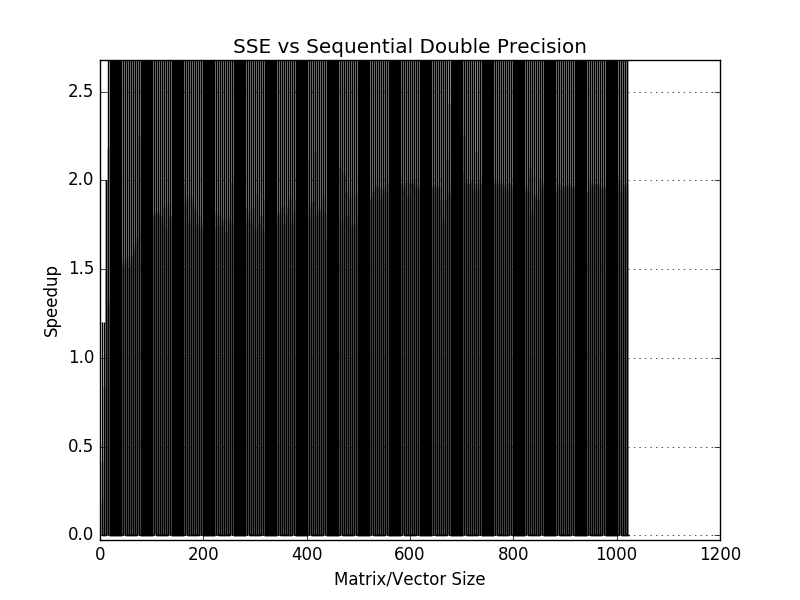
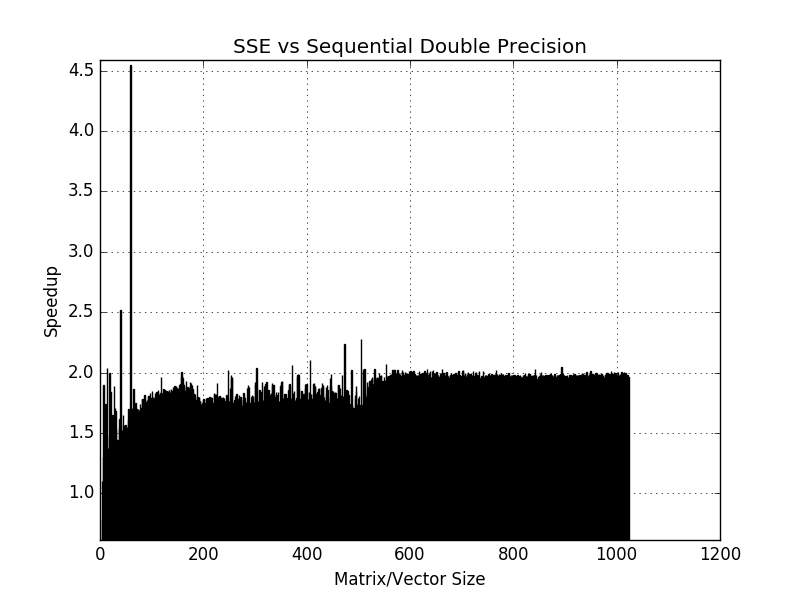
added Part C Task 1 and tikz conversion

diff --git a/src/Lab 1/Wrapper/GeneratePlots.py b/src/Lab 1/Wrapper/GeneratePlots.py
@@ -2,7 +2,8 @@ try:
    import cPickle as pickle
 except:
    import pickle
-import matplotlib.pyplot as plt
+from matplotlib import pyplot as plt
+from matplotlib import style
 import numpy as np
 
 from WrapperShared import Variant
@@ -41,6 +42,12 @@ def GeneratePlot(results, job_title):
         xlabel = "Matrix/Vector Size"
         ylabel = "Speedup"
         title = "SSE vs Sequential Double Precision"
+    elif job_title == "Part C Task 1":
+        xfield = "data_size"
+        yfield= "relative_improvement"
+        xlabel = "Matrix/Vector Size"
+        ylabel = "Speedup"
+        title = "OpenCL vs Sequential (x=8)"
 
     # Generate graph
     graphX = []
@@ -50,10 +57,14 @@ def GeneratePlot(results, job_title):
         graphX.append(result[xfield])
         graphY.append(result[yfield])
 
+    style.use('ggplot')
     plt.bar(graphX,graphY,align='center')
     plt.ylim([np.min(graphY)-(np.max(graphY)-np.min(graphY))*0.01,np.max(graphY)+(np.max(graphY)-np.min(graphY))*0.01])
     plt.xlabel(xlabel)
     plt.ylabel(ylabel)
     plt.title(title)
     plt.grid(True)
-    plt.savefig(title + ".png")
+
+    # convert graph to tikz
+    from matplotlib2tikz import save as tikz_save
+    tikz_save(title + '.tex')

diff --git a/src/Lab 1/Wrapper/Wrapper.py b/src/Lab 1/Wrapper/Wrapper.py
@@ -43,9 +43,9 @@ AVXMatrix = {
 OpenCL = {
     'name':'OpenCL',
     'variants':[Variant.base],
-    'configs':['Release','ReleaseDP'],
-    'data_sizes':[1024],
-    'thread_range':[8,16,32,64,128]
+    'configs':['Release'],
+    'data_sizes':np.arange(4, 1024, 4),
+    'thread_range':[8]
 }
 OpenCLMatrix = {
     'name':'OpenCLMatrix',
@@ -95,7 +95,7 @@ if __name__ == '__main__':
         opts = parser.parse_args(sys.argv[1:])
 
         ExecuteJob('Part B Task 1','partB_task1.pickle',platforms,types,iteration_range,max_n,generate_data=not opts.disable_bench,generate_plots=not opts.disable_plot)
-        SSE['variant'] = [Variant.arbitrarysize];
+        SSE['variants'] = [Variant.arbitrarysize];
         SSE['data_sizes'] = np.arange(4, 1024, 1);
         ExecuteJob('Part B Task 2','partB_task2.pickle',platforms,types,iteration_range,max_n,generate_data=not opts.disable_bench,generate_plots=not opts.disable_plot)
         SSE['configs'] = ['ReleaseDP'];

diff --git a/src/Lab 1/Wrapper/SSE vs Sequential Double Precision.tex b/src/Lab 1/Wrapper/SSE vs Sequential Double Precision.tex
@@ -1,0 +1,22 @@
+% This file was created by matplotlib2tikz v0.5.11.
+\begin{tikzpicture}
+
+\definecolor{color0}{rgb}{0.203921568627451,0.541176470588235,0.741176470588235}
+
+\begin{axis}[
+title={SSE vs Sequential Double Precision},
+xlabel={Matrix/Vector Size},
+ylabel={Speedup},
+xmin=0, xmax=1200,
+ymin=0.443888608061872, ymax=2.76642836439463,
+tick align=outside,
+xmajorgrids,
+x grid style={white},
+ymajorgrids,
+y grid style={white},
+axis line style={white},
+axis background/.style={fill=white!89.803921568627459!black}
+]
+\end{axis}
+
+\end{tikzpicture}

diff --git a/src/Lab 1/Wrapper/SSE vs Sequential Arbitrary Size.tex b/src/Lab 1/Wrapper/SSE vs Sequential Arbitrary Size.tex
@@ -1,0 +1,22 @@
+% This file was created by matplotlib2tikz v0.5.11.
+\begin{tikzpicture}
+
+\definecolor{color0}{rgb}{0.203921568627451,0.541176470588235,0.741176470588235}
+
+\begin{axis}[
+title={SSE vs Sequential Arbitrary Size},
+xlabel={Matrix/Vector Size},
+ylabel={Speedup},
+xmin=0, xmax=1200,
+ymin=1.1615996807087, ymax=5.08175818682171,
+tick align=outside,
+xmajorgrids,
+x grid style={white},
+ymajorgrids,
+y grid style={white},
+axis line style={white},
+axis background/.style={fill=white!89.803921568627459!black}
+]
+\end{axis}
+
+\end{tikzpicture}

diff --git a/src/Lab 1/Wrapper/SSE vs Sequential.tex b/src/Lab 1/Wrapper/SSE vs Sequential.tex
@@ -1,0 +1,22 @@
+% This file was created by matplotlib2tikz v0.5.11.
+\begin{tikzpicture}
+
+\definecolor{color0}{rgb}{0.203921568627451,0.541176470588235,0.741176470588235}
+
+\begin{axis}[
+title={SSE vs Sequential},
+xlabel={Matrix/Vector Size},
+ylabel={Speedup},
+xmin=0, xmax=1200,
+ymin=1.26381134903602, ymax=4.95388968790009,
+tick align=outside,
+xmajorgrids,
+x grid style={white},
+ymajorgrids,
+y grid style={white},
+axis line style={white},
+axis background/.style={fill=white!89.803921568627459!black}
+]
+\end{axis}
+
+\end{tikzpicture}
